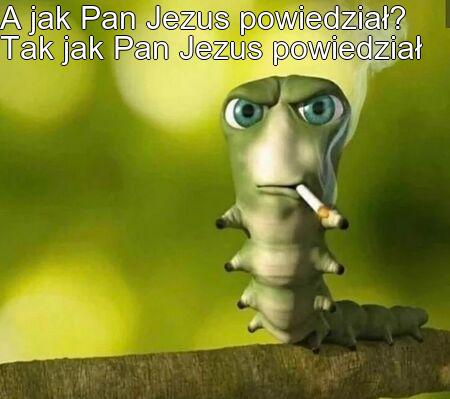
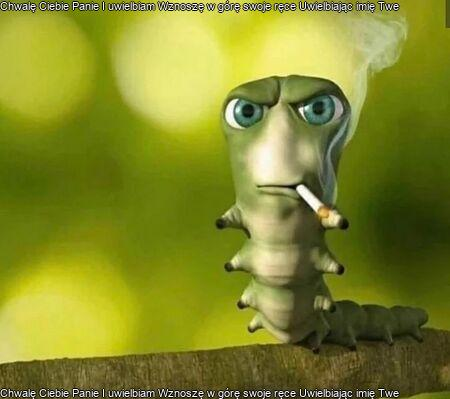
font scaling

Changed region(s): [[0.0, 0.0, 0.9644, 0.1805], [0.0, 0.9624, 0.9022, 1.0]]

diff --git a/src/create_meme.py b/src/create_meme.py
@@ -8,27 +8,26 @@ sys.path.append(dir2_path)
 import constants as res
  
 def create_meme(template_name, text):
+    font_size=calculate_font_size(text, ImageFont.truetype('arial', 1), 900)
     img = Image.open(res.image_path)
     draw = ImageDraw.Draw(img)
-    font = ImageFont.truetype('arial', 32)  # choose a suitable font and size
-
+    font = ImageFont.truetype('arial', font_size) 
+    text_w, text_h=textsize(text, font)
     width, height = img.size
 
-    # Split the text into two parts
     top_text = text
     bottom_text = ""
 
-    while draw.textlength(top_text, font_size=32) > width:
+    while draw.textlength(top_text, font_size=font_size) > width:
         top_text, last_word = top_text.rsplit(' ', 1)
         bottom_text = last_word + ' ' + bottom_text
 
-    # Draw the top text
     draw_text_with_outline(draw, (0, 0), top_text, font)
+    Y_POSN = height - text_h
+    X_POSN = 0
 
-    # Draw the bottom text
-    print(height)
-    if bottom_text:  # if there is any text left
-        draw_text_with_outline(draw, (0, -(height - draw.textlength(bottom_text, font_size=32))), bottom_text, font)
+    if bottom_text: 
+        draw_text_with_outline(draw, (X_POSN, (Y_POSN)), bottom_text, font)
 
     img.save(res.name_to_save)
 
@@ -39,6 +38,19 @@ def draw_text_with_outline(draw, position, text, font):
     draw.text((x, y-1), text, font=font, fill="black")
     draw.text((x, y+1), text, font=font, fill="black")
     draw.text(position, text, font=font, fill="white")
+
+def textsize(text, font):
+    im = Image.new(mode="P", size=(0, 0))
+    draw = ImageDraw.Draw(im)
+    _, _, width, height = draw.textbbox((0, 0), text=text, font=font)
+    return width, height
+
+def calculate_font_size(text, font, max_width) -> int:
+    font_size = 1
+    while font.getlength(text=text) < max_width:
+        font_size += 1
+        font = ImageFont.truetype('arial', font_size)
+    return font_size - 1
 
 if __name__ == '__main__' and __package__ is None:
     from os import sys, path
